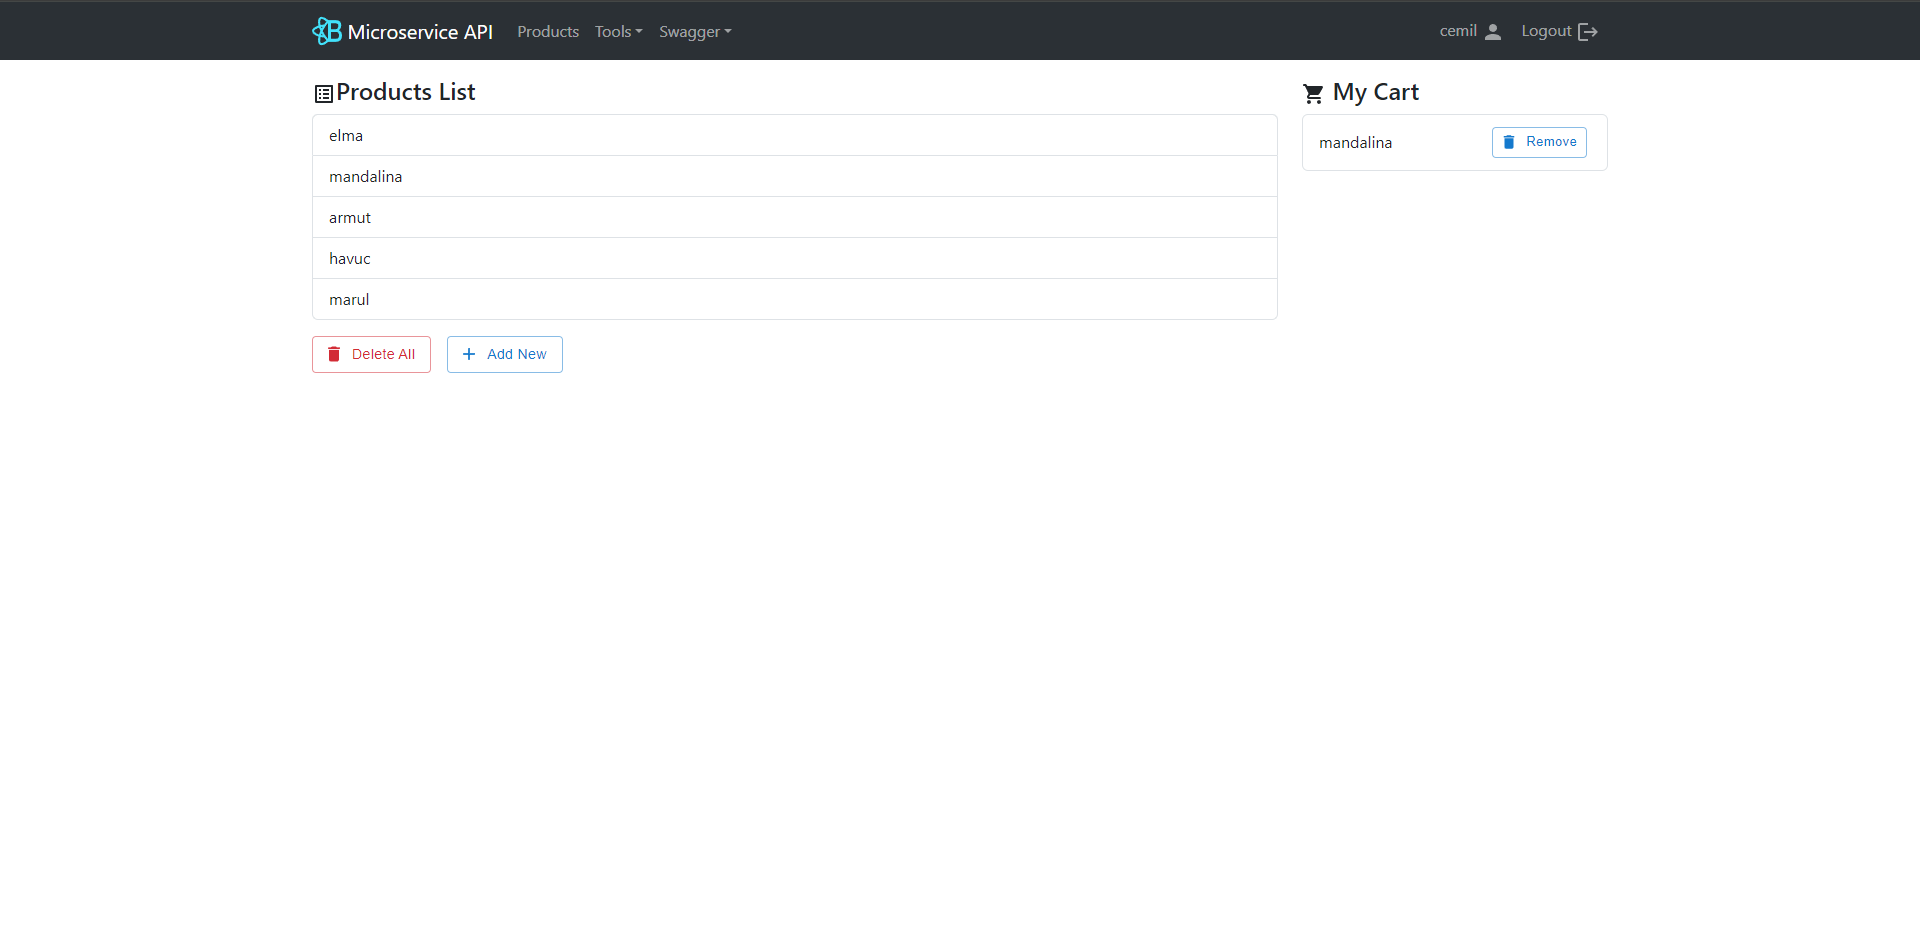
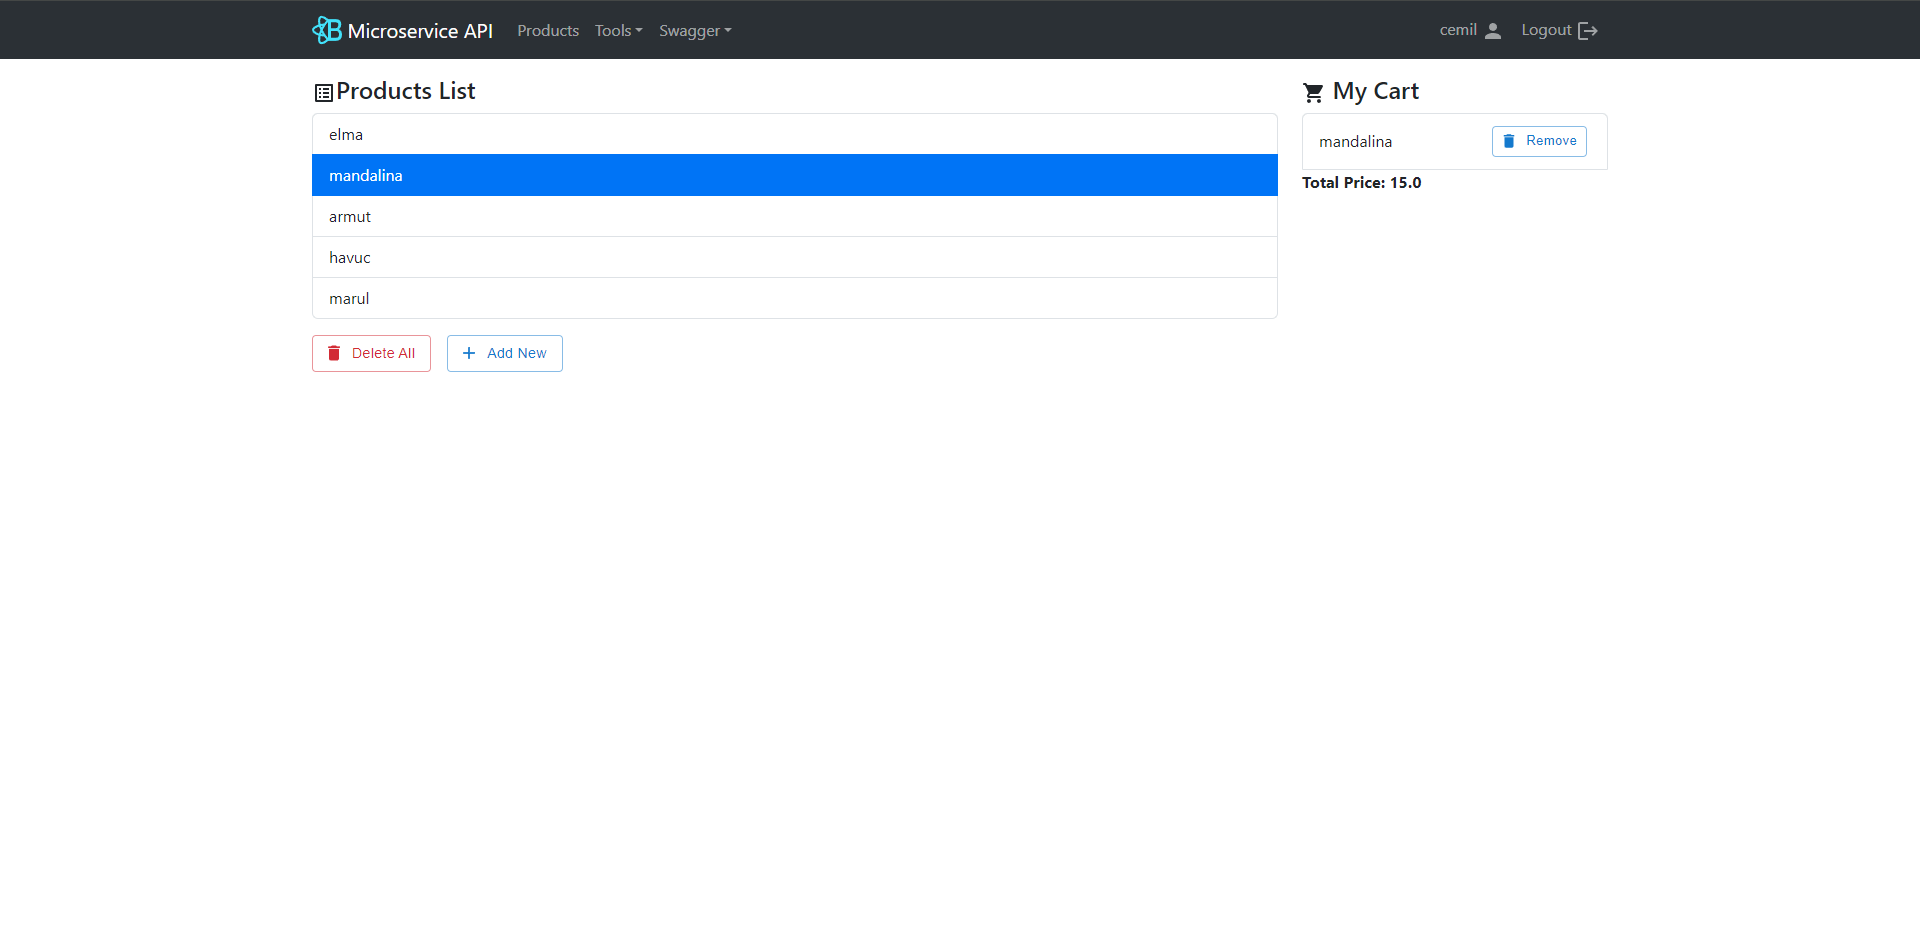
Cart total price added

diff --git a/src/components/ProductsListComponent.js b/src/components/ProductsListComponent.js
@@ -16,6 +16,7 @@ const ProductsList = () => {
     const [products, setProducts] = useState([]);
     const [cartProducts, setCartProducts] = useState([]);
     const [currentProduct, setCurrentProduct] = useState(null);
+    const [totalPrice, setTotalPrice] = useState("");
     const [cartId, setCartId] = useState(null);
     const [currentIndex, setCurrentIndex] = useState(-1);
     const [showModal, setShowModal] = useState(false);
@@ -33,8 +34,13 @@ const ProductsList = () => {
             setCartId(response.data.id);
             isCartExist = true;
             setCartProducts(response.data.products);
+            getTotalPrice(response.data.id);
         } catch (e) {
             console.log(e);
+        }
+
+        if (isCartExist) {
+
         }
 
         if (!isCartExist) {
@@ -113,6 +119,7 @@ const ProductsList = () => {
                 const { products } = response.data;
                 setCartProducts(products);
                 console.log(response.data);
+                getTotalPrice(cartId);
                 toast(product.name + " added to cart");
             })
             .catch((e) => {
@@ -127,13 +134,23 @@ const ProductsList = () => {
                 const { products } = response.data;
                 setCartProducts(products);
                 console.log(response.data);
-
+                getTotalPrice(cartId);
             })
             .catch((e) => {
                 console.log(e);
             });
     };
 
+    const getTotalPrice = (cartId) => {
+        cartService.getTotalPrice(cartId)
+            .then((response) => {
+                setTotalPrice(response.data.total_price)
+                console.log(response.data);
+            })
+            .catch((e) => {
+                console.log(e);
+            });
+    };
 
     return (
         <div className="row justify-content-md-center">
@@ -221,6 +238,7 @@ const ProductsList = () => {
                                 <Button startIcon={<DeleteIcon />} size="small" className="m-1" variant="outlined" color="primary" onClick={() => removeProductFromCart(cartProduct)} style={{ textTransform: "none" }}>Remove</Button>
                             </ListGroup.Item>
                         ))}
+                    <strong>Total Price: {totalPrice}</strong>
                 </ListGroup>
             </div>
 

diff --git a/src/services/CartService.js b/src/services/CartService.js
@@ -28,6 +28,9 @@ class CartService {
         return axios.delete(`shopping-cart/${cartId}/products/${productId}`, { headers: AuthHeader() });
     }
 
+    getTotalPrice(cartId){
+        return axios.get(`shopping-cart/totalprice/${cartId}`, { headers: AuthHeader() });
+    }
 
     deleteAll() {
         return axios.delete(`shopping-cart/deleteAll`, { headers: AuthHeader() });
